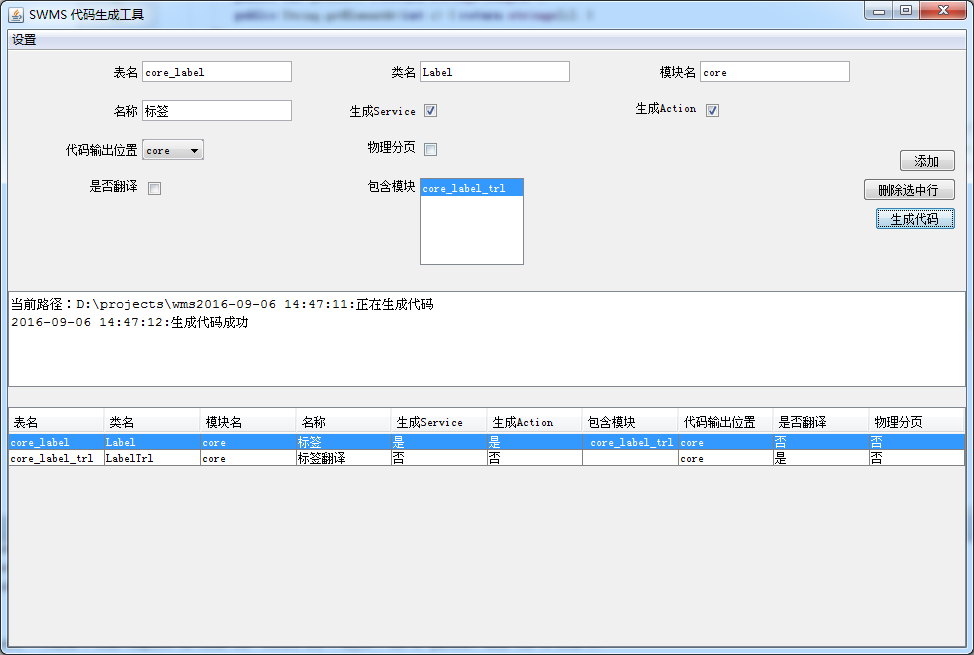
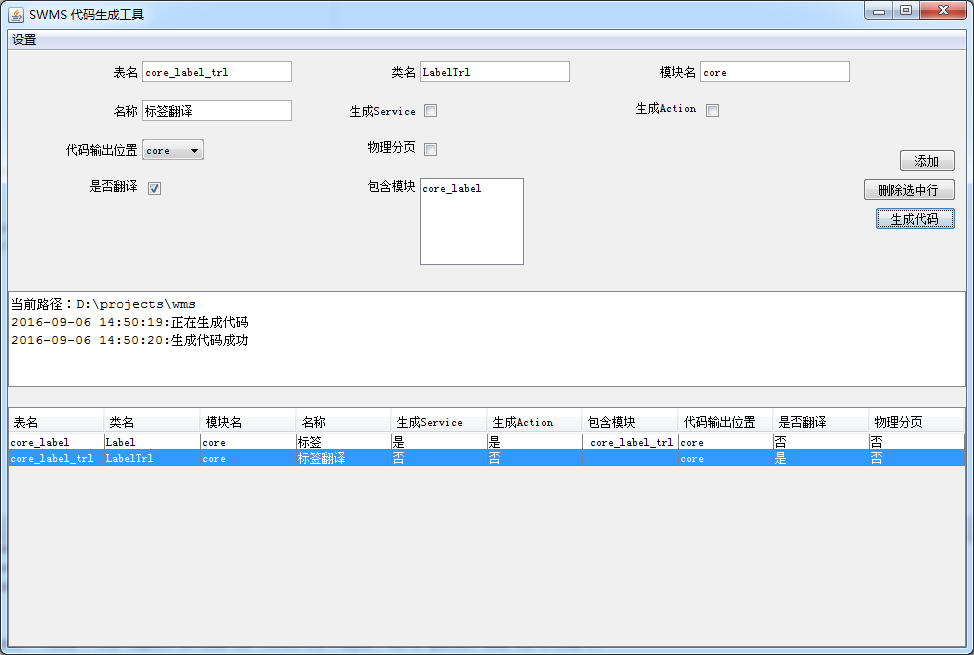
修改生成界面说明

diff --git a/devs/src/main/java/com/delmar/devs/swing/InputFrame.java b/devs/src/main/java/com/delmar/devs/swing/InputFrame.java
@@ -124,7 +124,7 @@ public class InputFrame extends javax.swing.JFrame {
 
         File directory = new File("");
         msgTextArea.append(rb.getString("dev.generation.tool.current.path"));
-        msgTextArea.append(directory.getAbsolutePath());
+        msgTextArea.append(directory.getAbsolutePath()+"\n");
         File currentFolder=new File(directory.getAbsolutePath());
         File[] files= currentFolder.listFiles();
         if(files!=null)
